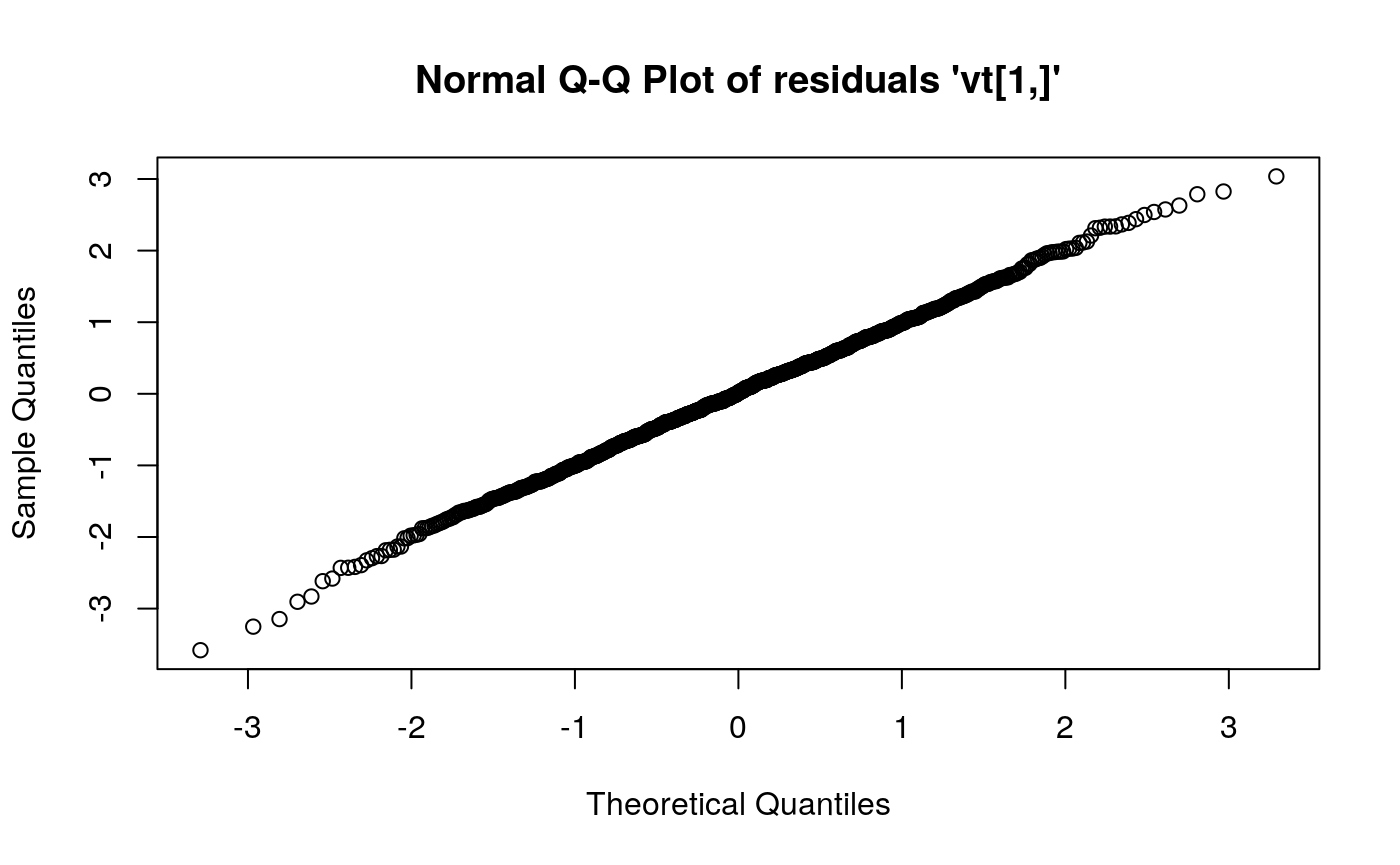
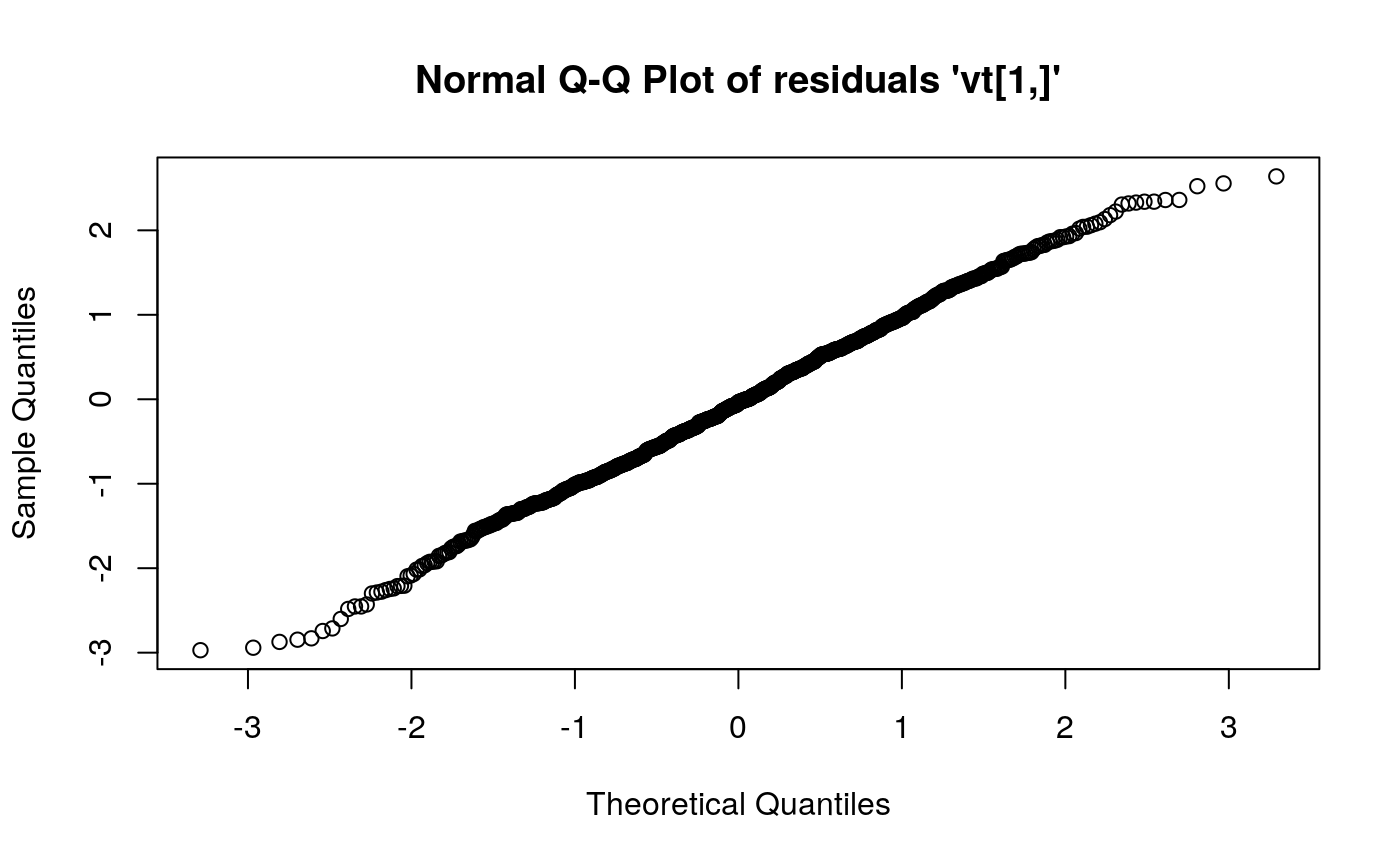
tidied up vignette errors, bumped version number

diff --git a/docs/articles/FKF.html b/docs/articles/FKF.html
@@ -31,7 +31,7 @@
       </button>
       <span class="navbar-brand">
         <a class="navbar-link" href="../index.html">FKF</a>
-        <span class="version label label-default" data-toggle="tooltip" data-placement="bottom" title="Released version">0.1.6</span>
+        <span class="version label label-default" data-toggle="tooltip" data-placement="bottom" title="Released version">0.1.7</span>
       </span>
     </div>
 
@@ -126,15 +126,15 @@
 <span class="no">fit</span> <span class="kw">&lt;-</span> <span class="fu"><a href="https://rdrr.io/r/stats/optim.html">optim</a></span>(<span class="no">theta</span>, <span class="no">objective</span>, <span class="kw">yt</span> <span class="kw">=</span> <span class="fu"><a href="https://rdrr.io/r/base/cbind.html">rbind</a></span>(<span class="no">a</span>), <span class="kw">hessian</span> <span class="kw">=</span> <span class="fl">TRUE</span>)
 <span class="no">fit</span>
 <span class="co">#&gt; $par</span>
-<span class="co">#&gt;         ar1         ar2         ma1       sigma </span>
-<span class="co">#&gt;  0.48852733  0.27012912 -0.09971514  0.46026394 </span>
+<span class="co">#&gt;        ar1        ar2        ma1      sigma </span>
+<span class="co">#&gt;  0.5730683  0.1828908 -0.1853861  0.4219260 </span>
 <span class="co">#&gt; </span>
 <span class="co">#&gt; $value</span>
-<span class="co">#&gt; [1] 650.1999</span>
+<span class="co">#&gt; [1] 563.3569</span>
 <span class="co">#&gt; </span>
 <span class="co">#&gt; $counts</span>
 <span class="co">#&gt; function gradient </span>
-<span class="co">#&gt;      327       NA </span>
+<span class="co">#&gt;      163       NA </span>
 <span class="co">#&gt; </span>
 <span class="co">#&gt; $convergence</span>
 <span class="co">#&gt; [1] 0</span>
@@ -143,17 +143,17 @@
 <span class="co">#&gt; NULL</span>
 <span class="co">#&gt; </span>
 <span class="co">#&gt; $hessian</span>
-<span class="co">#&gt;                 ar1           ar2          ma1         sigma</span>
-<span class="co">#&gt; ar1   2041.32700574 1394.38180383 1.040784e+03   -0.04222321</span>
-<span class="co">#&gt; ar2   1394.38180383 2041.11174853 1.025926e+02   -0.02874523</span>
-<span class="co">#&gt; ma1   1040.78442965  102.59257300 9.842012e+02    0.08045072</span>
-<span class="co">#&gt; sigma   -0.04222321   -0.02874523 8.045072e-02 9432.84844774</span></pre></body></html></div>
+<span class="co">#&gt;               ar1           ar2          ma1         sigma</span>
+<span class="co">#&gt; ar1   2030.060605 1423.18624592 1125.0292639  2.775120e-01</span>
+<span class="co">#&gt; ar2   1423.186246 2029.03698766  216.9956759 -2.554833e-02</span>
+<span class="co">#&gt; ma1   1125.029264  216.99567588 1069.3061598  2.630145e-01</span>
+<span class="co">#&gt; sigma    0.277512   -0.02554833    0.2630145  1.122639e+04</span></pre></body></html></div>
 <div class="sourceCode" id="cb6"><html><body><pre class="r"><span class="co">## Confidence intervals</span>
 <span class="fu"><a href="https://rdrr.io/r/base/cbind.html">rbind</a></span>(<span class="no">fit</span>$<span class="no">par</span> - <span class="fu"><a href="https://rdrr.io/r/stats/Normal.html">qnorm</a></span>(<span class="fl">0.975</span>) * <span class="fu"><a href="https://rdrr.io/r/base/MathFun.html">sqrt</a></span>(<span class="fu"><a href="https://rdrr.io/r/base/diag.html">diag</a></span>(<span class="fu"><a href="https://rdrr.io/r/base/solve.html">solve</a></span>(<span class="no">fit</span>$<span class="no">hessian</span>))),
       <span class="no">fit</span>$<span class="no">par</span> + <span class="fu"><a href="https://rdrr.io/r/stats/Normal.html">qnorm</a></span>(<span class="fl">0.975</span>) * <span class="fu"><a href="https://rdrr.io/r/base/MathFun.html">sqrt</a></span>(<span class="fu"><a href="https://rdrr.io/r/base/diag.html">diag</a></span>(<span class="fu"><a href="https://rdrr.io/r/base/solve.html">solve</a></span>(<span class="no">fit</span>$<span class="no">hessian</span>))))
-<span class="co">#&gt;            ar1       ar2         ma1     sigma</span>
-<span class="co">#&gt; [1,] 0.3141508 0.1514369 -0.28360268 0.4400837</span>
-<span class="co">#&gt; [2,] 0.6629038 0.3888213  0.08417241 0.4804442</span>
+<span class="co">#&gt;            ar1        ar2         ma1     sigma</span>
+<span class="co">#&gt; [1,] 0.3992443 0.06938489 -0.35802006 0.4034279</span>
+<span class="co">#&gt; [2,] 0.7468923 0.29639663 -0.01275223 0.4404241</span>
 
 <span class="co">## Filter the series with estimated parameter values</span>
 <span class="no">sp</span> <span class="kw">&lt;-</span> <span class="fu">arma21ss</span>(<span class="no">fit</span>$<span class="no">par</span>[<span class="st">"ar1"</span>], <span class="no">fit</span>$<span class="no">par</span>[<span class="st">"ar2"</span>], <span class="no">fit</span>$<span class="no">par</span>[<span class="st">"ma1"</span>], <span class="no">fit</span>$<span class="no">par</span>[<span class="st">"sigma"</span>])
@@ -201,7 +201,7 @@
                  <span class="kw">fn</span> <span class="kw">=</span> <span class="kw">function</span>(<span class="no">par</span>, <span class="no">...</span>)
                  -<span class="fu"><a href="../reference/fkf.html">fkf</a></span>(<span class="kw">HHt</span> <span class="kw">=</span> <span class="fu"><a href="https://rdrr.io/r/base/matrix.html">matrix</a></span>(<span class="no">par</span>[<span class="fl">1</span>]), <span class="kw">GGt</span> <span class="kw">=</span> <span class="fu"><a href="https://rdrr.io/r/base/matrix.html">matrix</a></span>(<span class="no">par</span>[<span class="fl">2</span>]), <span class="no">...</span>)$<span class="no">logLik</span>,
                  <span class="kw">yt</span> <span class="kw">=</span> <span class="fu"><a href="https://rdrr.io/r/base/cbind.html">rbind</a></span>(<span class="no">y</span>), <span class="kw">a0</span> <span class="kw">=</span> <span class="no">a0</span>, <span class="kw">P0</span> <span class="kw">=</span> <span class="no">P0</span>, <span class="kw">dt</span> <span class="kw">=</span> <span class="no">dt</span>, <span class="kw">ct</span> <span class="kw">=</span> <span class="no">ct</span>,
-                 <span class="kw">Zt</span> <span class="kw">=</span> <span class="no">Zt</span>, <span class="kw">Tt</span> <span class="kw">=</span> <span class="no">Tt</span>, <span class="kw">check.input</span> <span class="kw">=</span> <span class="fl">FALSE</span>)
+                 <span class="kw">Zt</span> <span class="kw">=</span> <span class="no">Zt</span>, <span class="kw">Tt</span> <span class="kw">=</span> <span class="no">Tt</span>, <span class="kw">check.input</span> <span class="kw">=</span> <span class="fl">TRUE</span>)
 
 <span class="co">## Filter Nile data with estimated parameters:</span>
 <span class="no">fkf.obj</span> <span class="kw">&lt;-</span> <span class="fu"><a href="../reference/fkf.html">fkf</a></span>(<span class="no">a0</span>, <span class="no">P0</span>, <span class="no">dt</span>, <span class="no">ct</span>, <span class="no">Tt</span>, <span class="no">Zt</span>, <span class="kw">HHt</span> <span class="kw">=</span> <span class="fu"><a href="https://rdrr.io/r/base/matrix.html">matrix</a></span>(<span class="no">fit.fkf</span>$<span class="no">par</span>[<span class="fl">1</span>]),
@@ -228,9 +228,8 @@
 <div id="example-3---local-level-and-plotting" class="section level1">
 <h1 class="hasAnchor">
 <a href="#example-3---local-level-and-plotting" class="anchor"></a>Example 3 - Local level and plotting</h1>
-<div class="sourceCode" id="cb11"><html><body><pre class="r"><span class="co">## Local level model for the treering width data.</span>
-<span class="co">## Transition equation:</span>
-<span class="co">## alpha[t+1] = alpha[t] + eta[t], eta[t] ~ N(0, HHt)          </span>
+<div class="sourceCode" id="cb11"><html><body><pre class="r"><span class="co">## Transition equation:</span>
+<span class="co">## alpha[t+1] = alpha[t] + eta[t], eta[t] ~ N(0, HHt)</span>
 <span class="co">## Measurement equation:</span>
 <span class="co">## y[t] = alpha[t] + eps[t], eps[t] ~  N(0, GGt)</span>
 
@@ -243,17 +242,20 @@
 <span class="no">a0</span> <span class="kw">&lt;-</span> <span class="no">y</span>[<span class="fl">1</span>]            <span class="co"># Estimation of the first width</span>
 <span class="no">P0</span> <span class="kw">&lt;-</span> <span class="fu"><a href="https://rdrr.io/r/base/matrix.html">matrix</a></span>(<span class="fl">100</span>)     <span class="co"># Variance of 'a0'</span>
 
+<span class="co">## Note that Zt and Tt have no third dimension but HHt and GGt do in the call below.</span>
+<span class="co">## This will cause memory errors unless check.input is set to TRUE</span>
+
 <span class="co">## Estimate parameters:</span>
 <span class="no">fit.fkf</span> <span class="kw">&lt;-</span> <span class="fu"><a href="https://rdrr.io/r/stats/optim.html">optim</a></span>(<span class="fu"><a href="https://rdrr.io/r/base/c.html">c</a></span>(<span class="kw">HHt</span> <span class="kw">=</span> <span class="fu"><a href="https://rdrr.io/r/stats/cor.html">var</a></span>(<span class="no">y</span>, <span class="kw">na.rm</span> <span class="kw">=</span> <span class="fl">TRUE</span>) * <span class="fl">.5</span>,
                    <span class="kw">GGt</span> <span class="kw">=</span> <span class="fu"><a href="https://rdrr.io/r/stats/cor.html">var</a></span>(<span class="no">y</span>, <span class="kw">na.rm</span> <span class="kw">=</span> <span class="fl">TRUE</span>) * <span class="fl">.5</span>),
                  <span class="kw">fn</span> <span class="kw">=</span> <span class="kw">function</span>(<span class="no">par</span>, <span class="no">...</span>)
-                 -<span class="fu"><a href="../reference/fkf.html">fkf</a></span>(<span class="kw">HHt</span> <span class="kw">=</span> <span class="fu"><a href="https://rdrr.io/r/base/matrix.html">matrix</a></span>(<span class="no">par</span>[<span class="fl">1</span>]), <span class="kw">GGt</span> <span class="kw">=</span> <span class="fu"><a href="https://rdrr.io/r/base/matrix.html">matrix</a></span>(<span class="no">par</span>[<span class="fl">2</span>]), <span class="no">...</span>)$<span class="no">logLik</span>,
+                   -<span class="fu"><a href="../reference/fkf.html">fkf</a></span>(<span class="kw">HHt</span> <span class="kw">=</span> <span class="fu"><a href="https://rdrr.io/r/base/array.html">array</a></span>(<span class="no">par</span>[<span class="fl">1</span>],<span class="fu"><a href="https://rdrr.io/r/base/c.html">c</a></span>(<span class="fl">1</span>,<span class="fl">1</span>,<span class="fl">1</span>)), <span class="kw">GGt</span> <span class="kw">=</span> <span class="fu"><a href="https://rdrr.io/r/base/array.html">array</a></span>(<span class="no">par</span>[<span class="fl">2</span>],<span class="fu"><a href="https://rdrr.io/r/base/c.html">c</a></span>(<span class="fl">1</span>,<span class="fl">1</span>,<span class="fl">1</span>)), <span class="no">...</span>)$<span class="no">logLik</span>,
                  <span class="kw">yt</span> <span class="kw">=</span> <span class="fu"><a href="https://rdrr.io/r/base/cbind.html">rbind</a></span>(<span class="no">y</span>), <span class="kw">a0</span> <span class="kw">=</span> <span class="no">a0</span>, <span class="kw">P0</span> <span class="kw">=</span> <span class="no">P0</span>, <span class="kw">dt</span> <span class="kw">=</span> <span class="no">dt</span>, <span class="kw">ct</span> <span class="kw">=</span> <span class="no">ct</span>,
-                 <span class="kw">Zt</span> <span class="kw">=</span> <span class="no">Zt</span>, <span class="kw">Tt</span> <span class="kw">=</span> <span class="no">Tt</span>, <span class="kw">check.input</span> <span class="kw">=</span> <span class="fl">FALSE</span>)
+                 <span class="kw">Zt</span> <span class="kw">=</span> <span class="no">Zt</span>, <span class="kw">Tt</span> <span class="kw">=</span> <span class="no">Tt</span>, <span class="kw">check.input</span> <span class="kw">=</span> <span class="fl">TRUE</span>)
 
-<span class="co">## Filter Nile data with estimated parameters:</span>
-<span class="no">fkf.obj</span> <span class="kw">&lt;-</span> <span class="fu"><a href="../reference/fkf.html">fkf</a></span>(<span class="no">a0</span>, <span class="no">P0</span>, <span class="no">dt</span>, <span class="no">ct</span>, <span class="no">Tt</span>, <span class="no">Zt</span>, <span class="kw">HHt</span> <span class="kw">=</span> <span class="fu"><a href="https://rdrr.io/r/base/matrix.html">matrix</a></span>(<span class="no">fit.fkf</span>$<span class="no">par</span>[<span class="fl">1</span>]),
-               <span class="kw">GGt</span> <span class="kw">=</span> <span class="fu"><a href="https://rdrr.io/r/base/matrix.html">matrix</a></span>(<span class="no">fit.fkf</span>$<span class="no">par</span>[<span class="fl">2</span>]), <span class="kw">yt</span> <span class="kw">=</span> <span class="fu"><a href="https://rdrr.io/r/base/cbind.html">rbind</a></span>(<span class="no">y</span>))
+<span class="co">## Filter tree ring data with estimated parameters:</span>
+<span class="no">fkf.obj</span> <span class="kw">&lt;-</span> <span class="fu"><a href="../reference/fkf.html">fkf</a></span>(<span class="no">a0</span>, <span class="no">P0</span>, <span class="no">dt</span>, <span class="no">ct</span>, <span class="no">Tt</span>, <span class="no">Zt</span>, <span class="kw">HHt</span> <span class="kw">=</span> <span class="fu"><a href="https://rdrr.io/r/base/array.html">array</a></span>(<span class="no">fit.fkf</span>$<span class="no">par</span>[<span class="fl">1</span>],<span class="fu"><a href="https://rdrr.io/r/base/c.html">c</a></span>(<span class="fl">1</span>,<span class="fl">1</span>,<span class="fl">1</span>)),
+               <span class="kw">GGt</span> <span class="kw">=</span> <span class="fu"><a href="https://rdrr.io/r/base/array.html">array</a></span>(<span class="no">fit.fkf</span>$<span class="no">par</span>[<span class="fl">2</span>],<span class="fu"><a href="https://rdrr.io/r/base/c.html">c</a></span>(<span class="fl">1</span>,<span class="fl">1</span>,<span class="fl">1</span>)), <span class="kw">yt</span> <span class="kw">=</span> <span class="fu"><a href="https://rdrr.io/r/base/cbind.html">rbind</a></span>(<span class="no">y</span>))
 
 <span class="co">## Plot the width together with fitted local levels:</span>
 <span class="fu"><a href="https://rdrr.io/r/base/plot.html">plot</a></span>(<span class="no">y</span>, <span class="kw">main</span> <span class="kw">=</span> <span class="st">"Treering data"</span>)

diff --git a/docs/reference/plot.fkf.html b/docs/reference/plot.fkf.html
@@ -76,7 +76,7 @@ crosscorrelation function of the residuals." />
       </button>
       <span class="navbar-brand">
         <a class="navbar-link" href="../index.html">FKF</a>
-        <span class="version label label-default" data-toggle="tooltip" data-placement="bottom" title="Released version">0.1.6</span>
+        <span class="version label label-default" data-toggle="tooltip" data-placement="bottom" title="Released version">0.1.7</span>
       </span>
     </div>
 

diff --git a/docs/reference/fkf.html b/docs/reference/fkf.html
@@ -77,7 +77,7 @@ in BLAS and LAPACK." />
       </button>
       <span class="navbar-brand">
         <a class="navbar-link" href="../index.html">FKF</a>
-        <span class="version label label-default" data-toggle="tooltip" data-placement="bottom" title="Released version">0.1.6</span>
+        <span class="version label label-default" data-toggle="tooltip" data-placement="bottom" title="Released version">0.1.7</span>
       </span>
     </div>
 

diff --git a/docs/articles/index.html b/docs/articles/index.html
@@ -71,7 +71,7 @@
       </button>
       <span class="navbar-brand">
         <a class="navbar-link" href="../index.html">FKF</a>
-        <span class="version label label-default" data-toggle="tooltip" data-placement="bottom" title="Released version">0.1.6</span>
+        <span class="version label label-default" data-toggle="tooltip" data-placement="bottom" title="Released version">0.1.7</span>
       </span>
     </div>
 

diff --git a/docs/reference/index.html b/docs/reference/index.html
@@ -71,7 +71,7 @@
       </button>
       <span class="navbar-brand">
         <a class="navbar-link" href="../index.html">FKF</a>
-        <span class="version label label-default" data-toggle="tooltip" data-placement="bottom" title="Released version">0.1.6</span>
+        <span class="version label label-default" data-toggle="tooltip" data-placement="bottom" title="Released version">0.1.7</span>
       </span>
     </div>
 

diff --git a/docs/404.html b/docs/404.html
@@ -71,7 +71,7 @@
       </button>
       <span class="navbar-brand">
         <a class="navbar-link" href="index.html">FKF</a>
-        <span class="version label label-default" data-toggle="tooltip" data-placement="bottom" title="Released version">0.1.6</span>
+        <span class="version label label-default" data-toggle="tooltip" data-placement="bottom" title="Released version">0.1.7</span>
       </span>
     </div>
 

diff --git a/docs/authors.html b/docs/authors.html
@@ -71,7 +71,7 @@
       </button>
       <span class="navbar-brand">
         <a class="navbar-link" href="index.html">FKF</a>
-        <span class="version label label-default" data-toggle="tooltip" data-placement="bottom" title="Released version">0.1.6</span>
+        <span class="version label label-default" data-toggle="tooltip" data-placement="bottom" title="Released version">0.1.7</span>
       </span>
     </div>
 

diff --git a/docs/index.html b/docs/index.html
@@ -38,7 +38,7 @@
       </button>
       <span class="navbar-brand">
         <a class="navbar-link" href="index.html">FKF</a>
-        <span class="version label label-default" data-toggle="tooltip" data-placement="bottom" title="Released version">0.1.6</span>
+        <span class="version label label-default" data-toggle="tooltip" data-placement="bottom" title="Released version">0.1.7</span>
       </span>
     </div>
 
